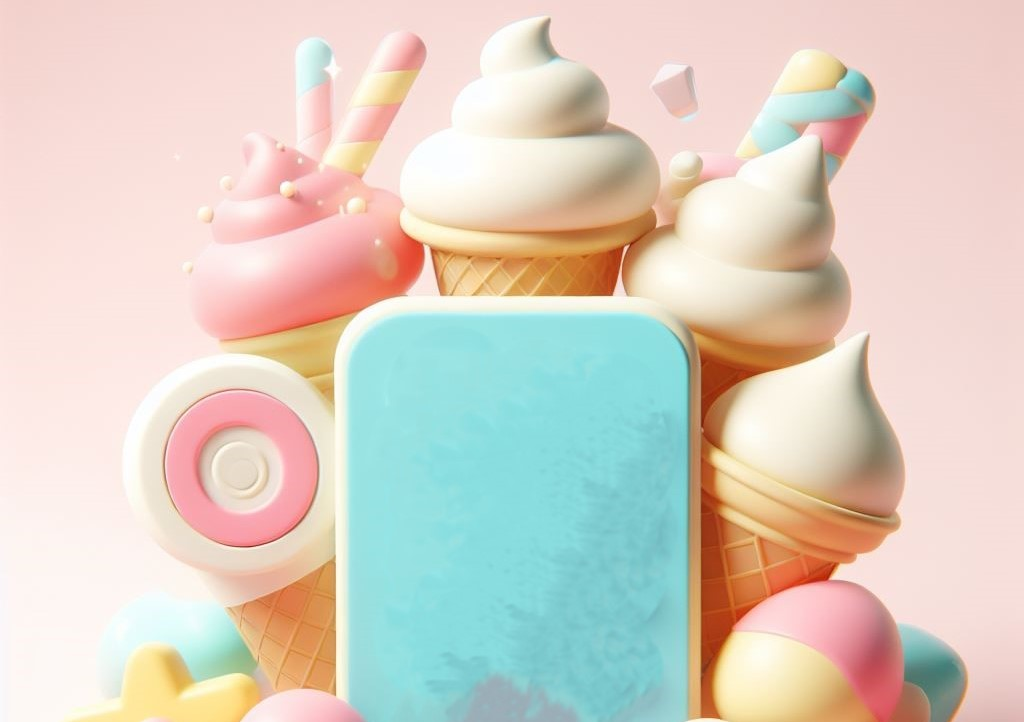
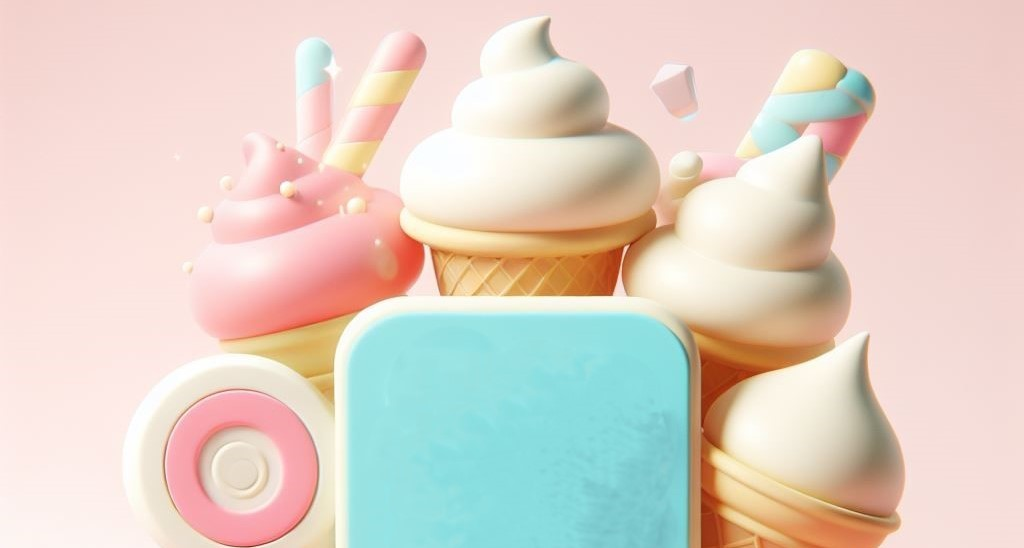
welcome

diff --git a/css/gameSite.css b/css/gameSite.css
@@ -4,11 +4,12 @@
   body {
     background-image: url(../assets/images/backGroundHome.jpeg);
     background-repeat: no-repeat;
-    background-size: cover;
- 
+    background-size: 100vw;
     margin: 0;
-    background-color: #eecfca;
+    height: 100vh;
     color: black;
+    background-color: #fecfc5;
+    background-position: center;
    
   
   
@@ -16,9 +17,9 @@
   .grid-container {
     display: grid;
     grid-template-columns: 1fr 1fr 1fr 1fr 1fr;
-    grid-template-rows: 1fr 1fr 1fr  1fr 1fr 1fr;
+    grid-template-rows: 1fr 1fr 1fr 1fr;
     position: relative;
-    z-index:1;
+    z-index:-1;
   }
 
 
@@ -47,66 +48,80 @@
     animation-delay: 2.5s;
     animation-duration: 2s;
   }
-  .oneGame img{
+
+  .title{
+    height: 50px;
+    width:700px;
+    grid-area: 1/2/4/5;
+    position: absolute;
+    transform: translate(-50%, -50%);
+
+    width: 100%;
+    height: 100%;
+    animation: slideImage 2s ease forwards;
+    
+}
+@keyframes slideImage {
+    0% {
+        transform: translateY(-100%);
+    }
+    100% {
+        transform: translateY(0);
+    }
+}
+
+  .Game img{
     position: relative;
-    width: 6.5vh;
-    height: 6.5vh;
+    width: 20vh;
+    height:20vh;
     border-radius: 10%;
-
-        overflow-clip-margin: content-box;
-        overflow: clip;
-        z-index: 1;
-
-  }
-  .oneGame img{
-    position: relative;
-    width: 6.5vh;
-    height: 6.5vh;
-    border-radius: 10%;
-
-        overflow-clip-margin: content-box;
-        overflow: clip;
-        z-index: 1;
+    box-shadow: 0px 0px 5px 0px rgba(0, 0, 0, 0.75);
+    transition: transform 0.3s ease;
+    /* overflow-clip-margin: content-box;
+    overflow: clip; */
+     z-index: 1;
 
   }
-  .threeGame img{
-    position: relative;
-    width: 6.5vh;
-    height: 6.5vh;
-    border-radius: 10%;
+  
+  .Game img:hover {
+    transform: scale(1.05);
+}
 
-        overflow-clip-margin: content-box;
-        overflow: clip;
-        z-index: 1;
-
-  }
-  .towGame img{
-    position: relative;
-    width: 6.5vh;
-    height: 6.5vh;
-    border-radius: 10%;
-
-   overflow-clip-margin: content-box;
-        overflow: clip;
-        z-index: 1;
-
-  }
-  .fourColum {
-    position: relative;
-    top: calc(100% - 400px);
-    grid-area: 2/1/2/3;
-    z-index:1;
-    height: 0px;
-
-   
-  }
-
-  .towColum {
-    position: relative;
-    top: calc(100% - 400px);
-    grid-area: 2/5/2/4;
-    z-index: 1;
-    height: 0px;
-  }
 
   
+  .oneColum {
+    position: relative;
+    /* top: calc(100% - 400px); */
+    grid-area: 4/3/4/4;
+    display:grid;
+    z-index:1;
+    animation: slideLeftToPosition 1s ease-in-out forwards;
+  }
+
+
+  @keyframes slideLeftToPosition {
+    0% {
+        left: -200%; /* מיקום התחלתי משמאל */
+    }
+    100% {
+        left: 0; /* מיקום סופי */
+    }
+}
+  .towColum {
+    position: relative;
+    /* top: calc(100% - 400px); */
+    margin-left: -100px;
+    grid-area: 4/6/4/4;
+    z-index: 1;
+    animation: slideRightToPosition 1s ease-in-out forwards;
+  
+  }
+
+  @keyframes slideRightToPosition {
+    0% {
+        right: -100%; /* מיקום התחלתי מימין */
+    }
+    100% {
+        right: 0; /* מיקום סופי */
+    }
+}

diff --git a/pages/gameSite.html b/pages/gameSite.html
@@ -12,17 +12,20 @@
 
 
 <body class="grid-container">
+
+    <div class="title"><img src="../assets/images/icons/welcom.png" id="title"
+        class="title"></div>
     <div class="oneColum">
-        <div class="oneGame"><img src="../assets/images/icons/iceCreameIcon.jpeg" id="coneWin1-elements"
-            class="coneWin-elements"></div>
-        <div class="towGame" ><img src="../assets/images/icons/memory-game.jpeg" id="coneWin1-elements"
-        class="coneWin-elements"></div>
+        <div class="Game"><img src="../assets/images/icons/iceCreameIcon.jpeg"
+           ></div>
+        <div class="Game" ><img src="../assets/images/icons/memory-game.jpeg" 
+       ></div>
     </div>
     <div class="towColum">
-        <div class="threeGame"> <img src="../assets/images/icons/bull.jpeg" id="coneWin1-elements"
-            class="coneWin-elements"></div>
-        <div class="fourGame"><img src="../assets/images/icons/coneSilver1.png" id="coneWin1-elements"
-            class="coneWin-elements"></div>
+        <div class="Game"> <img src="../assets/images/icons/bull.jpeg"
+          ></div>
+        <div class="Game"><img src="../assets/images/icons/coneSilver1.png" 
+            ></div>
     </div>
     
 </body>

diff --git a/css/game.css b/css/game.css
@@ -25,13 +25,7 @@ body {
   z-index: -1;
 }
 
-<<<<<<< HEAD
-
-/* עיצוב הגלידה להכנה */
-.ice-cream-container {
-=======
 .ice-cream-container1, .ice-cream-container2 {
->>>>>>> 814e86da8fa17fbf41f0d508ba324bb4b32812d6
   display: flex;
   flex-direction: column-reverse;
   align-items: center;
